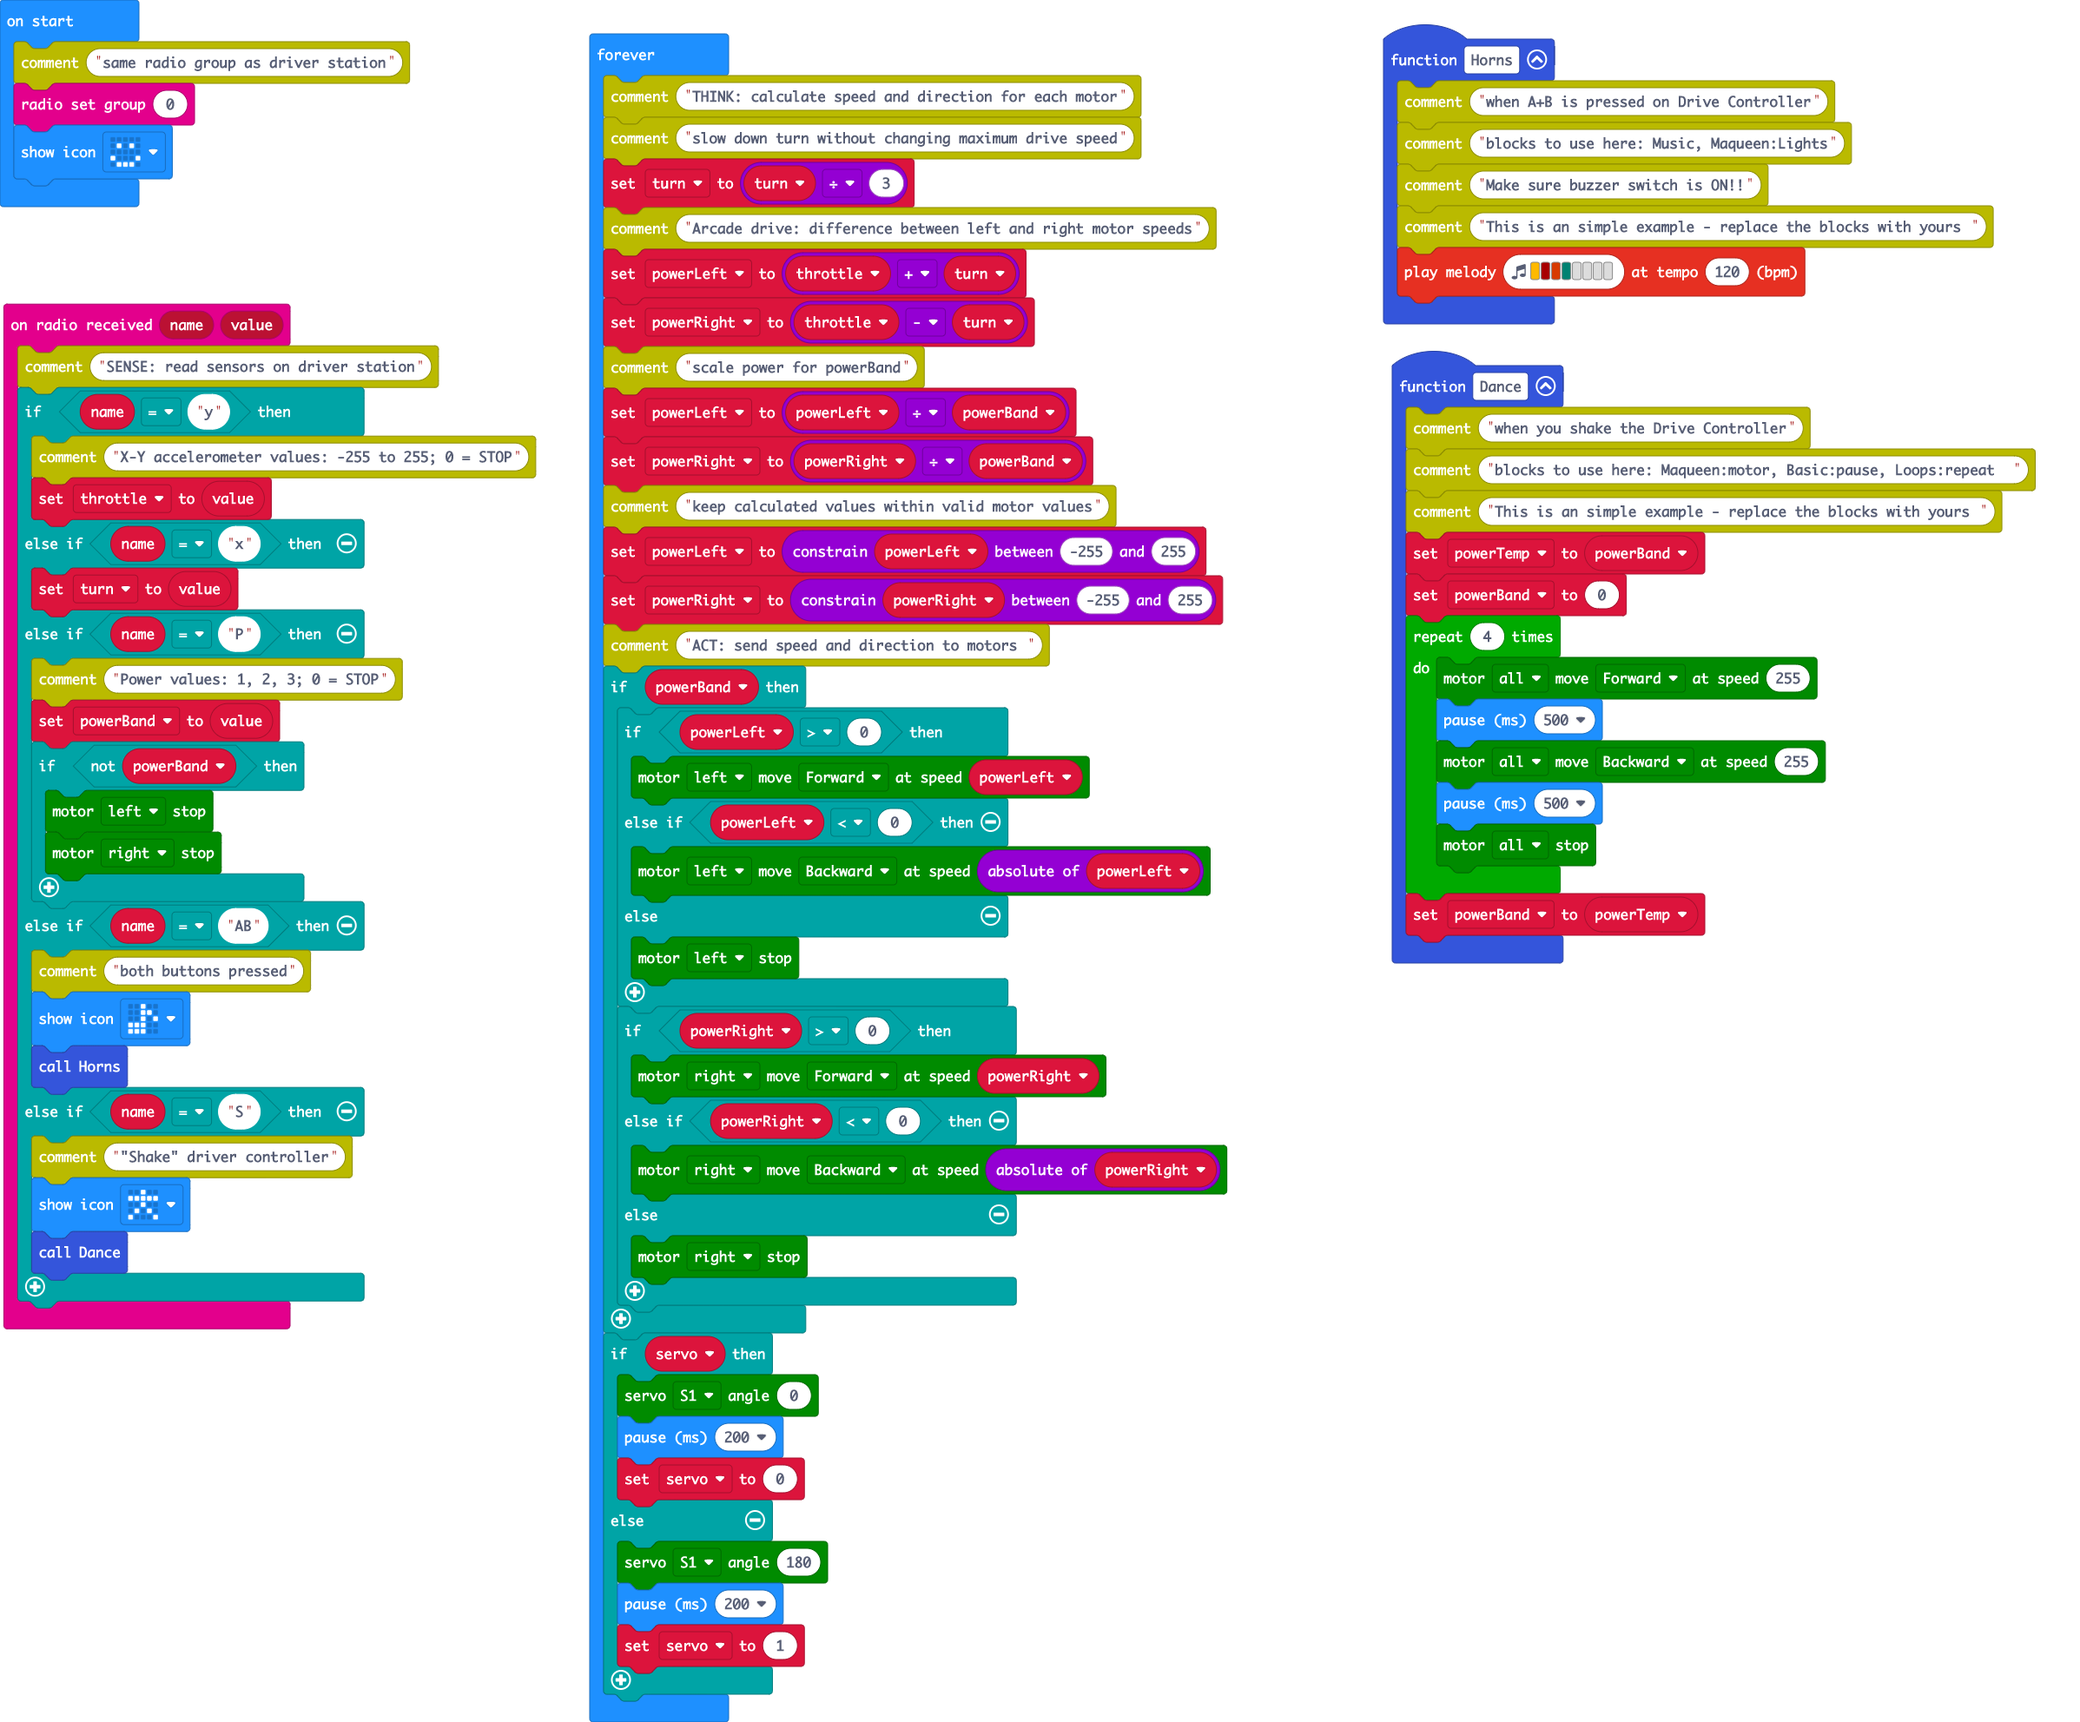
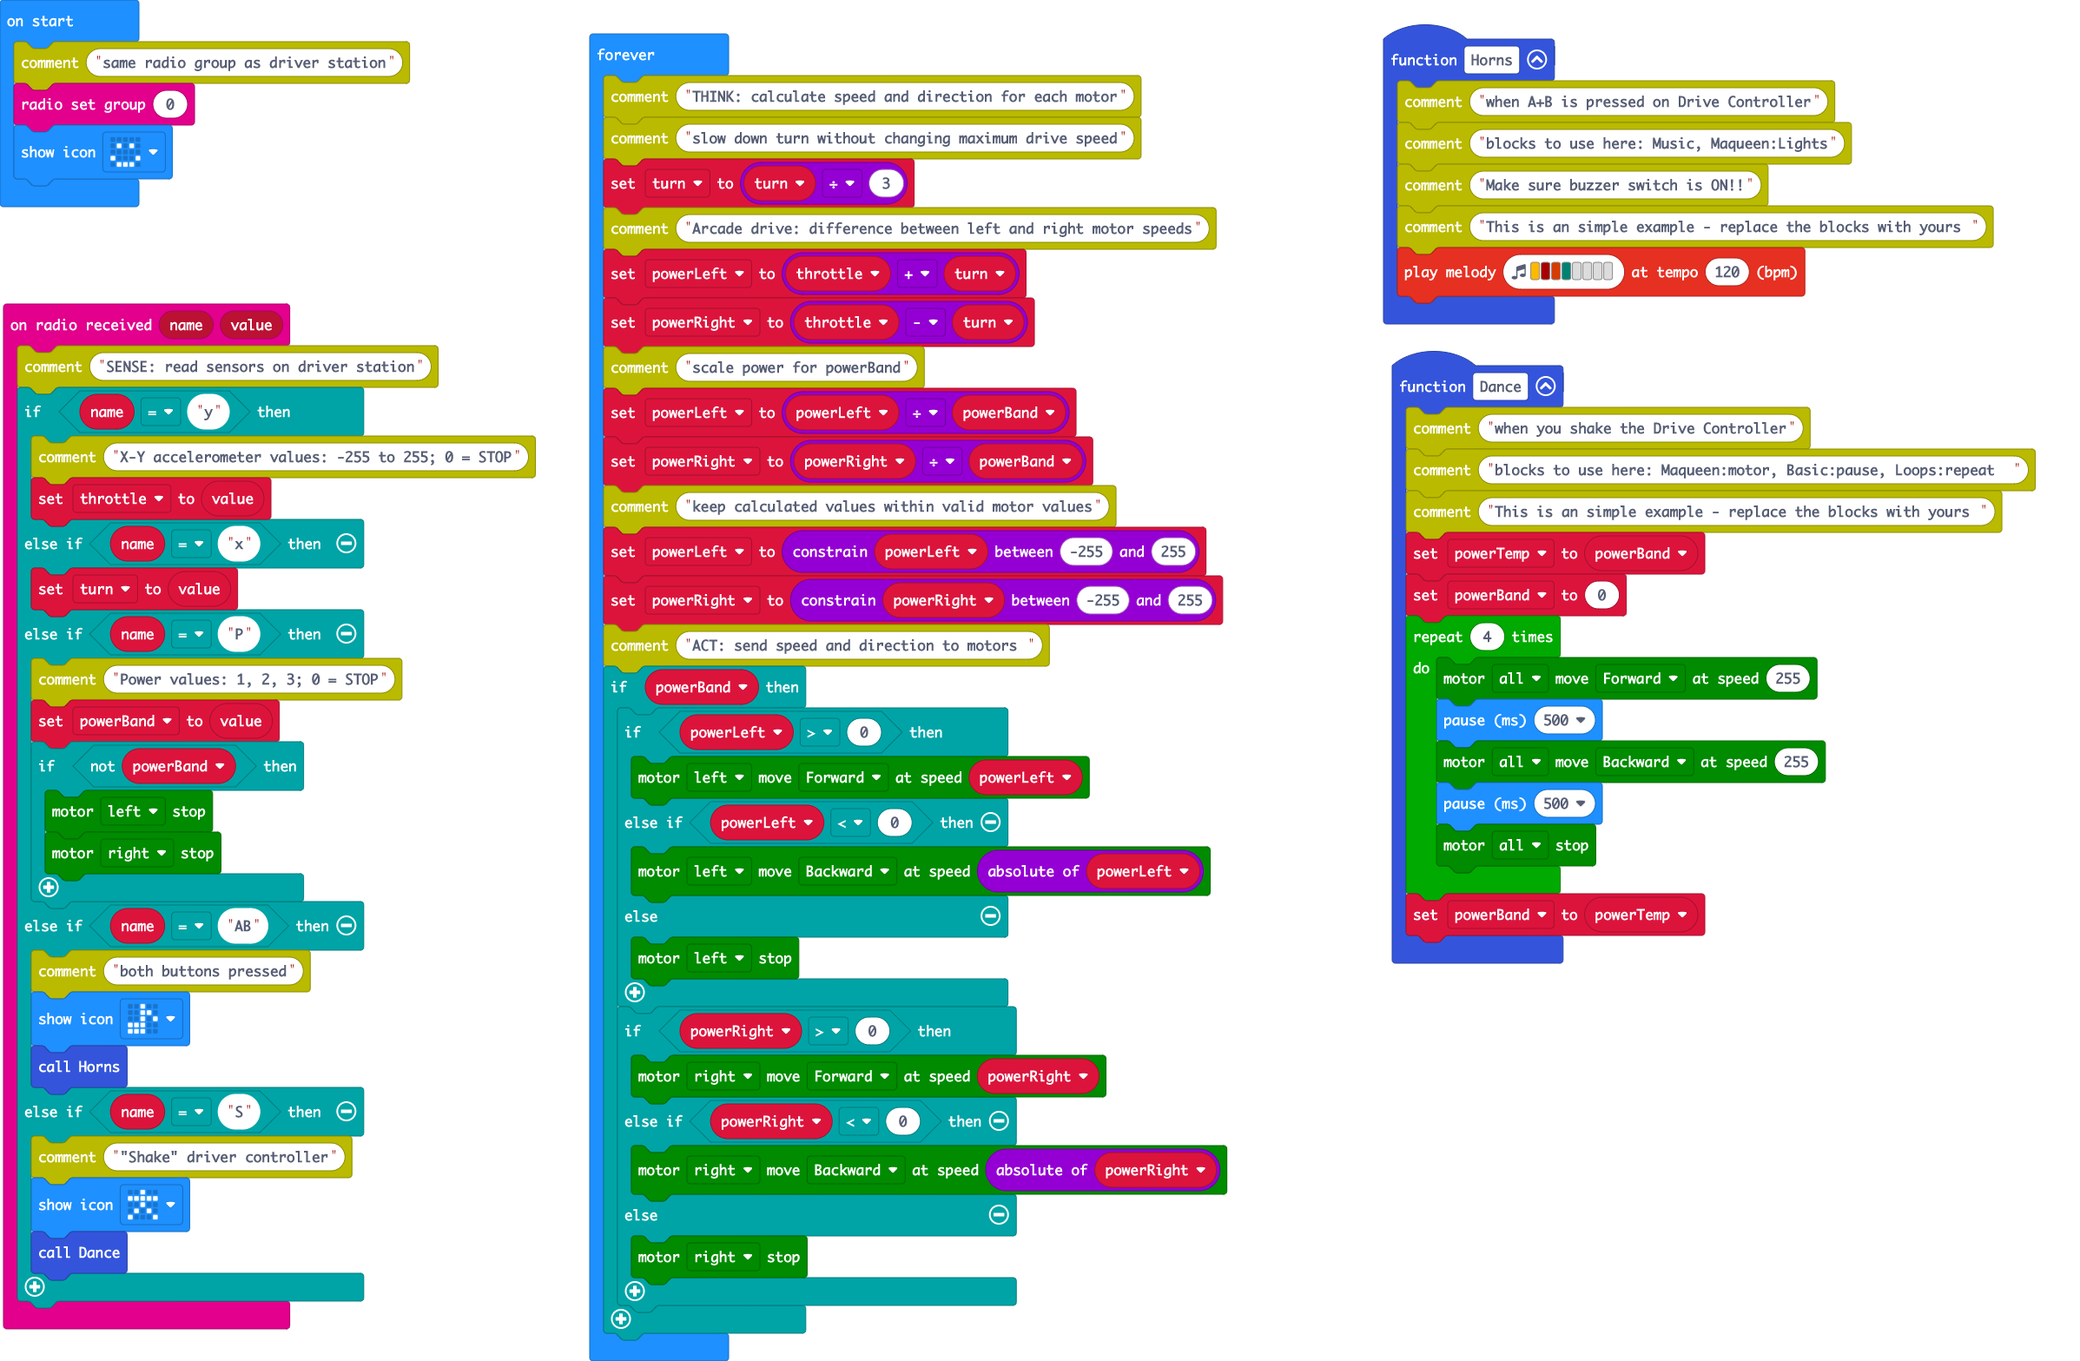
Update main.blocks, main.ts

diff --git a/main.ts b/main.ts
@@ -44,7 +44,6 @@ radio.onReceivedValue(function (name, value) {
         Dance()
     }
 })
-let servo = 0
 let powerRight = 0
 let powerLeft = 0
 let turn = 0
@@ -83,14 +82,5 @@ basic.forever(function () {
         } else {
             maqueen.motorStop(maqueen.Motors.M2)
         }
-    }
-    if (servo) {
-        maqueen.servoRun(maqueen.Servos.S1, 0)
-        basic.pause(200)
-        servo = 0
-    } else {
-        maqueen.servoRun(maqueen.Servos.S1, 180)
-        basic.pause(200)
-        servo = 1
     }
 })
